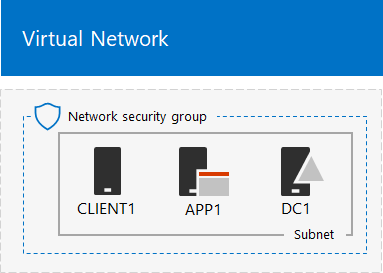
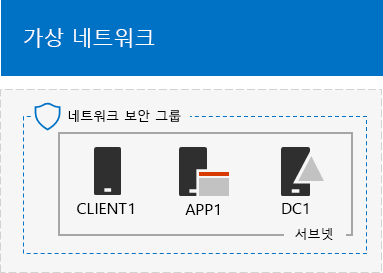
commit translated contents

diff --git a/microsoft-365/enterprise/microsoft-365-deploment-guide-changes.md b/microsoft-365/enterprise/microsoft-365-deploment-guide-changes.md
@@ -3,7 +3,7 @@ title: Microsoft 365 Enterprise 배포 컨텐츠의 변경 사항
 author: JoeDavies-MSFT
 ms.author: josephd
 manager: laurawi
-ms.date: 11/12/2019
+ms.date: 11/19/2019
 audience: ITPro
 ms.topic: article
 ms.service: o365-solutions
@@ -13,14 +13,24 @@ ms.collection:
 - Strat_O365_Enterprise
 ms.custom: ''
 description: Microsoft 365 배포 가이드의 새로운 내용 및 콘텐츠에 대한 변경 사항을 확인하세요.
-ms.openlocfilehash: d2946034c4f5bd5e650a18859c1fbd6fe3c6fdd4
-ms.sourcegitcommit: 8aa9f204b056f01bfb4c357347dc1592d0c9b688
+ms.openlocfilehash: 529d781f31157c6e9ad63a83ef5f8bb96873049d
+ms.sourcegitcommit: 2bdd7b535a7d2a4896df130b7047f8c85f4d47b4
 ms.translationtype: HT
 ms.contentlocale: ko-KR
-ms.lasthandoff: 11/15/2019
-ms.locfileid: "38669719"
+ms.lasthandoff: 11/19/2019
+ms.locfileid: "38711892"
 ---
 # <a name="changes-to-microsoft-365-enterprise-deployment-content"></a>Microsoft 365 Enterprise 배포 컨텐츠의 변경 사항
+
+## <a name="november-2019"></a>2019년 11월
+
+### <a name="new-content"></a>새로운 내용 
+
+- [Microsoft 365 Business에서 Microsoft 365 Enterprise E3로 마이그레이션](https://docs.microsoft.com/microsoft-365/business/migrate-from-microsoft-365-business-to-microsoft-365-enterprise)
+
+- [Contoso Corporation의 극비 프로젝트를 위한 팀](contoso-team-for-top-secret-project.md)
+
+  [![Contoso Corporation의 극비 프로젝트를 위한 팀](./media/contoso-team-for-highly-confidential-assets/final-config-example-file.png)](contoso-team-for-top-secret-project.md)
 
 ## <a name="october-2019"></a>2019년 10월
 
@@ -28,15 +38,15 @@ ms.locfileid: "38669719"
 
 - [높은 규제 대상 데이터를 위한 Teams 포스터](secure-teams-highly-regulated-data-scenario.md#poster)
 
-  [![높은 규제 대상 데이터를 위한 Teams 포스터](././media/secure-teams-highly-regulated-data-scenario/teams-highly-regulated-data-poster.png)](./media/secure-teams-highly-regulated-data-scenario/TeamsHighlyRegulatedData.pdf)
+  [![규제 수준이 높은 데이터 포스터를 위한 Teams](././media/secure-teams-highly-regulated-data-scenario/teams-highly-regulated-data-poster.png)](./media/secure-teams-highly-regulated-data-scenario/TeamsHighlyRegulatedData.pdf)
 
-  이 포스터를 [PDF](https://github.com/MicrosoftDocs/microsoft-365-docs/raw/public/microsoft-365/enterprise/media/secure-teams-highly-regulated-data-scenario/TeamsHighlyRegulatedData.pdf)로 다운로드하고 편지형, 법률형 또는 타블로이드(11 x 17) 형식으로 인쇄할 수 있습니다.
+  이 포스터를 [PDF](https://github.com/MicrosoftDocs/microsoft-365-docs/raw/public/microsoft-365/enterprise/media/secure-teams-highly-regulated-data-scenario/TeamsHighlyRegulatedData.pdf)나 [PowerPoint](https://github.com/MicrosoftDocs/microsoft-365-docs/raw/public/microsoft-365/enterprise/media/secure-teams-highly-regulated-data-scenario/Teams-Highly-Regulated-Data-Poster.pptx) 형식으로 다운로드할 수 있고, Letter, Legal, Tabloid(11 x 17) 크기 용지에 인쇄할 수도 있습니다.
 
 - [높은 규제 대상 데이터를 위한 SharePoint 사이트 포스터](teams-sharepoint-online-sites-highly-regulated-data.md#poster)
 
   [![높은 규제 대상 데이터를 위한 SharePoint 사이트 포스터](./media/teams-sharepoint-online-sites-highly-regulated-data/sharepoint-sites-highly-regulated-data-poster.png)](./media/teams-sharepoint-online-sites-highly-regulated-data/SharePointSitesHighlyRegulatedData.pdf)
 
-  이 포스터를 [PDF](https://github.com/MicrosoftDocs/microsoft-365-docs/raw/public/microsoft-365/enterprise/media/teams-sharepoint-online-sites-highly-regulated-data/SharePointSitesHighlyRegulatedData.pdf)로 다운로드하고 편지형, 법률형 또는 타블로이드(11 x 17) 형식으로 인쇄할 수 있습니다.
+  이 포스터를 [PDF](https://github.com/MicrosoftDocs/microsoft-365-docs/raw/public/microsoft-365/enterprise/media/teams-sharepoint-online-sites-highly-regulated-data/SharePointSitesHighlyRegulatedData.pdf)나 [PowerPoint](https://github.com/MicrosoftDocs/microsoft-365-docs/raw/public/microsoft-365/enterprise/media/teams-sharepoint-online-sites-highly-regulated-data/SharePoint-Sites-Highly-Regulated-Data.pptx) 형식으로 다운로드할 수 있고, Letter, Legal, Tabloid(11 x 17) 크기 용지에 인쇄할 수도 있습니다.
 
 - [Autopilot 포스터를 사용하여 Windows 10 배포](windows10-deploy-autopilot.md) 
 
@@ -60,7 +70,7 @@ ms.locfileid: "38669719"
 
   [![원격 작업자 지원](./media/empower-people-to-work-remotely/empower-remote-workers-poster.png)](media/empower-people-to-work-remotely/empower-remote-workers-scenario.pdf) 
 
-- [Microsoft 365 Business에서 Microsoft 365 Enterprise E3로 마이그레이션](https://docs.microsoft.com/microsoft-365/business/migrate-from-microsoft-365-business-to-microsoft-365-enterprise)
+  이 포스터를 [PDF](https://github.com/MicrosoftDocs/microsoft-365-docs/raw/public/microsoft-365/enterprise/media/empower-people-to-work-remotely/empower-remote-workers-scenario.pdf)나 [PowerPoint](https://github.com/MicrosoftDocs/microsoft-365-docs/raw/public/microsoft-365/enterprise/media/empower-people-to-work-remotely/Empower-Remote-Workers-Poster.pptx) 형식으로 다운로드할 수 있고, Letter, Legal, Tabloid(11 x 17) 크기 용지에 인쇄할 수도 있습니다.
 
 ### <a name="updates-and-enhancements"></a>업데이트 및 향상된 기능
 

diff --git a/microsoft-365/enterprise/modern-desktop-deployment-and-management-lab.md b/microsoft-365/enterprise/modern-desktop-deployment-and-management-lab.md
@@ -13,12 +13,12 @@ ms.collection:
 - Strat_O365_Enterprise
 ms.custom: ''
 description: Windows 및 Office 배포 랩 키트에 액세스하는 방법 및 위치에 대해 알아보세요.
-ms.openlocfilehash: b8d6ae3a6721a3563cc68fcec9dd7f9d470bb31e
-ms.sourcegitcommit: 70e920f76526f47fc849df615de4569e0ac2f4be
+ms.openlocfilehash: c3d3c8047e6814a56ec6470a9166fd0c13eb6839
+ms.sourcegitcommit: 6a413a65b8c2e10cea08f0a15635b28a1362a582
 ms.translationtype: HT
 ms.contentlocale: ko-KR
-ms.lasthandoff: 11/07/2019
-ms.locfileid: "38031113"
+ms.lasthandoff: 11/19/2019
+ms.locfileid: "38718637"
 ---
 # <a name="windows-and-office-deployment-lab-kit"></a>Windows 및 Office 배포 랩 키트
 
@@ -36,7 +36,7 @@ Windows 10 및 Office 365 ProPlus의 [데스크톱 배포](https://www.aka.ms/ho
 
 이러한 랩은 도메인에 가입된 데스크톱 클라이언트, 도메인 컨트롤러, 인터넷 게이트웨이 및 완전히 구성된 ConfigMgr 인스턴스를 포함하여 자동으로 프로비전된 가상 랩 환경을 제공합니다. 랩에는 다음 제품의 평가판이 포함되어 있습니다.
 
-  - Windows 10 Enterprise, Version 1903
+  - Windows 10 Enterprise, 버전 1909
   - Windows 7 Enterprise
   - System Center Configuration Manager, 버전 1902
   - Windows 10용 Windows Assessment and Deployment Kit, 버전 1903
@@ -118,7 +118,7 @@ Windows 10 및 Office 365 ProPlus의 [데스크톱 배포](https://www.aka.ms/ho
 
 ### <a name="download-the-windows-and-office-deployment-lab-kithttpswwwmicrosoftcomevalcenterevaluate-lab-kit"></a>[**Windows 및 Office 배포 랩 키트 다운로드**](https://www.microsoft.com/evalcenter/evaluate-lab-kit)
 
-*광대역폭을 통해 이 콘텐츠를 다운로드하여 다운로드 환경을 개선하고 자동 프로비전을 위해 30-45분을 허용하세요. 이 랩 환경에는 최소 16GB의 사용 가능한 메모리와 150GB의 사용 가능한 디스크 공간이 필요합니다. 최적의 성능을 위해 32GB의 사용 가능한 메모리가 있는 것이 좋습니다. 이 랩은 2019년 11월 16일에 만료됩니다. 만료 전에 새 버전이 게시됩니다.*
+*이 콘텐츠를 빠르게 다운로드할 수 있도록 초고속 인터넷을 사용하고 자동 프로비전을 위해 30분에서 45분 정도를 기다리세요. 랩 환경은 최소 16GB의 사용 가능한 메모리와 150GB의 사용 가능한 디스크 공간이 필요합니다. 최적의 성능을 위해서 32GB의 사용 가능한 메모리를 권장합니다. 이 랩은 2020년 2월 15일에 만료됩니다. 만료 전에 새 버전이 게시됩니다.*
 
 ## <a name="additional-guidance"></a>**추가 지침**
 
